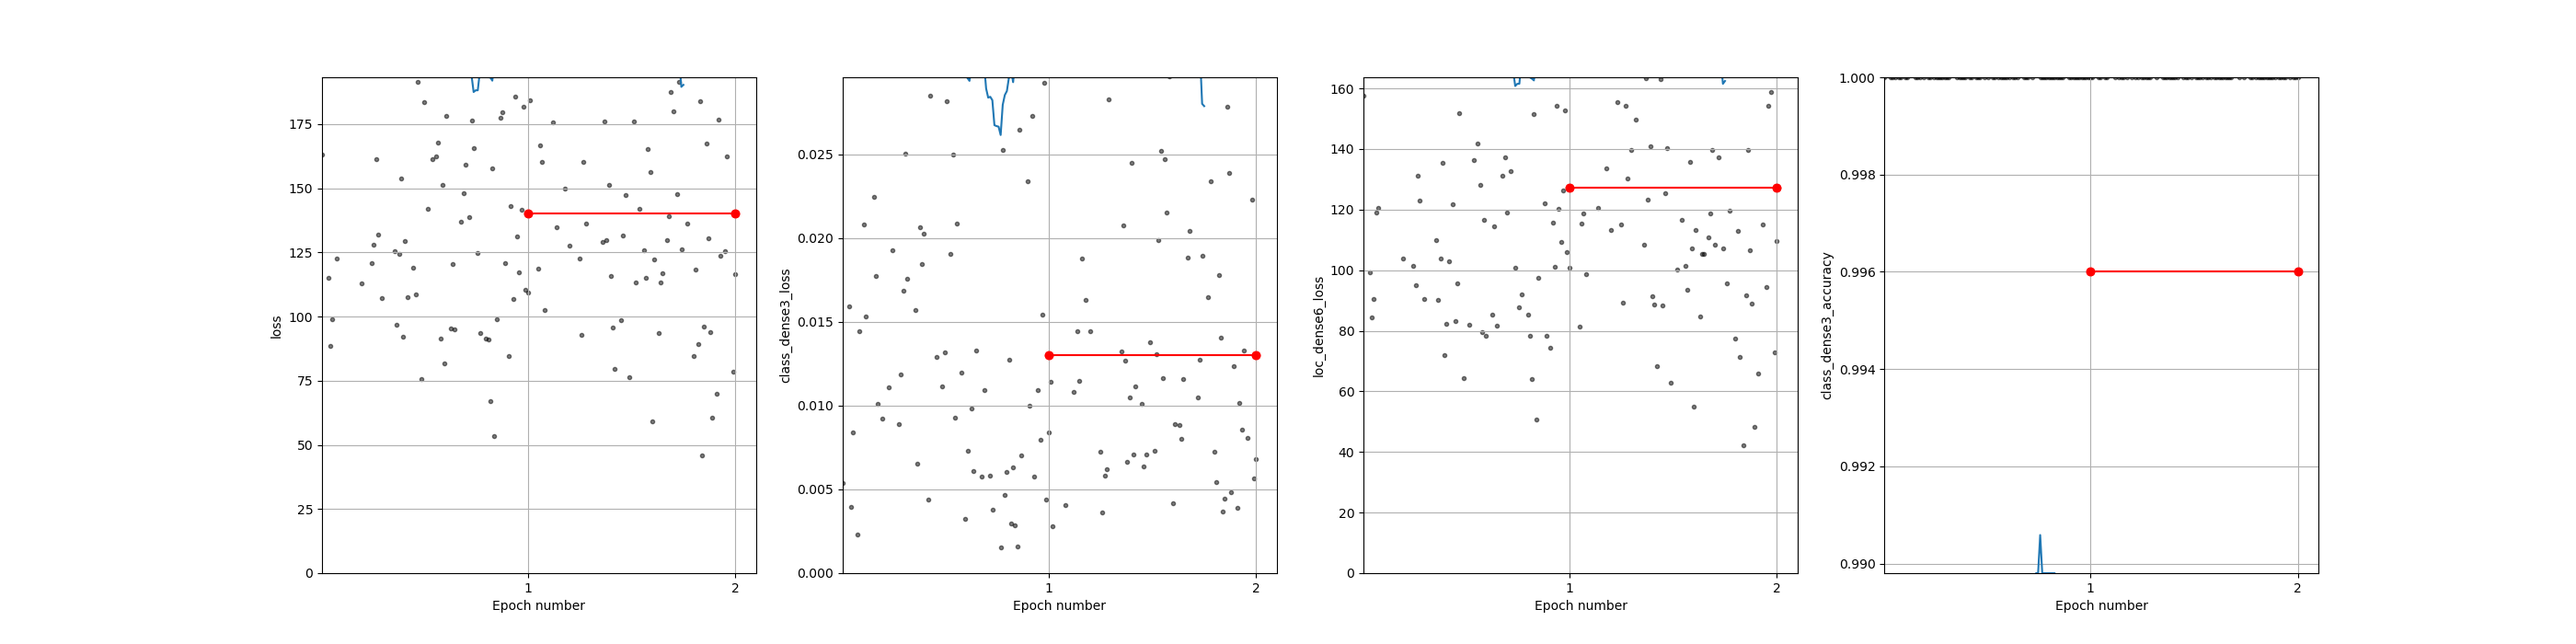
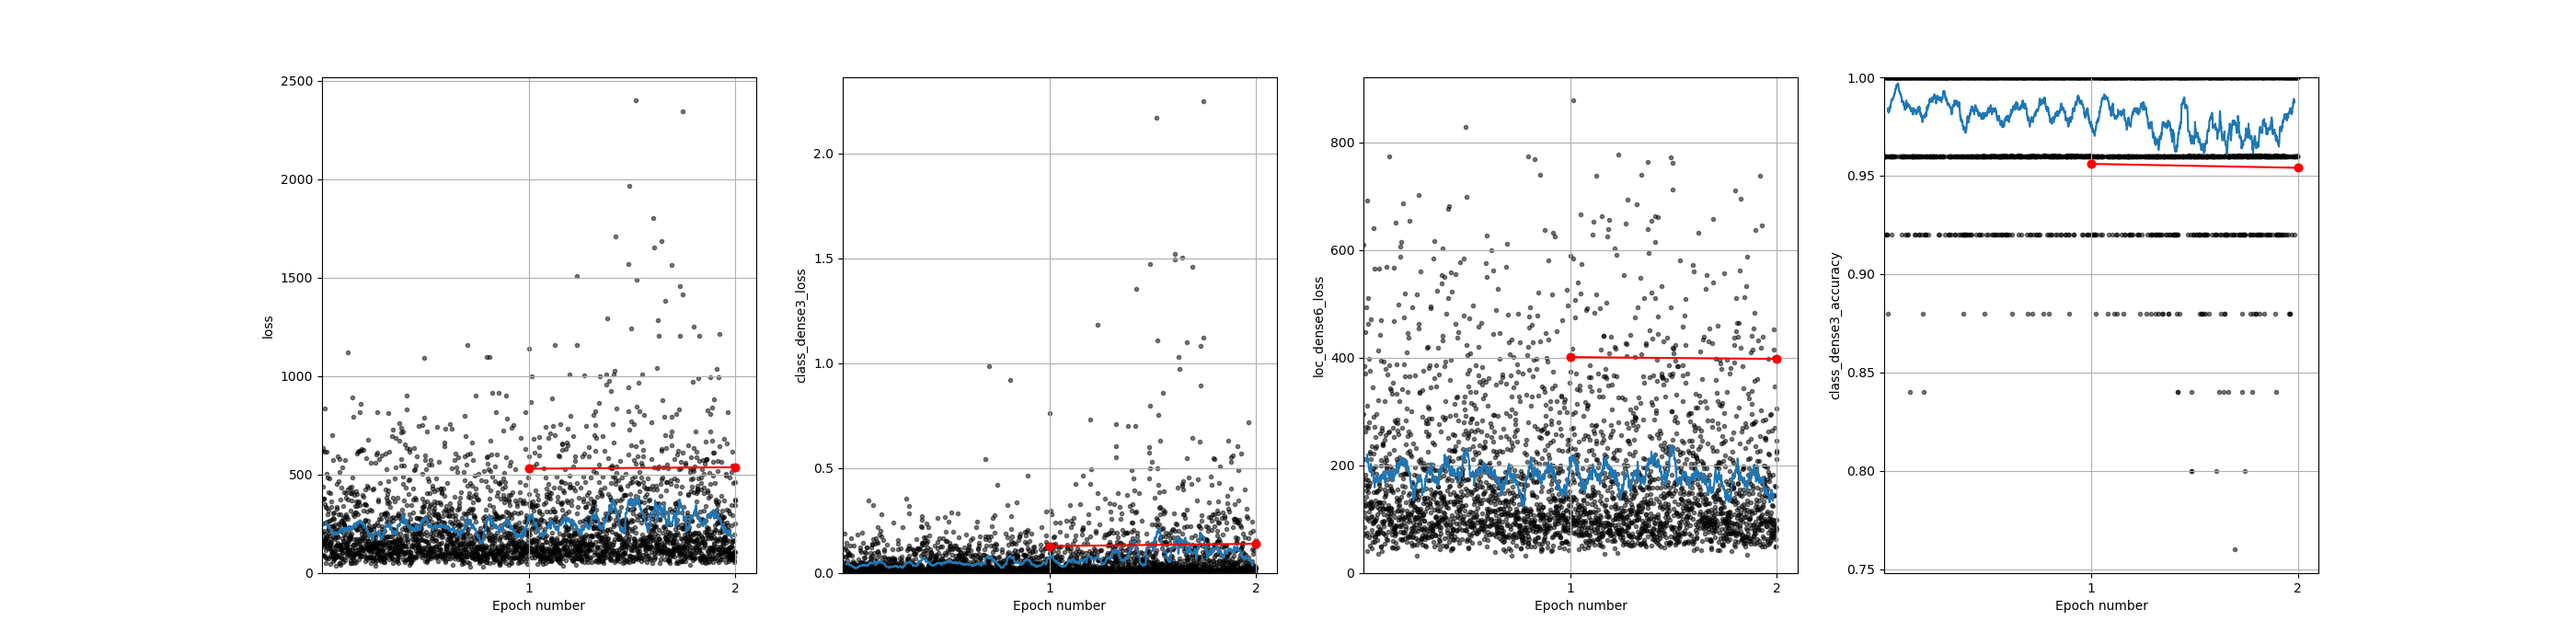
Efficeintnet fine tune training does not ruin model performace, but gradually reduces performance.
Remove step 08 and put outputs in director for each model.

diff --git a/step_06_07_train.py b/step_06_07_train.py
@@ -23,6 +23,7 @@ from copy import deepcopy
 import tensorflow as tf
 import tensorflow.keras as keras
 
+from tensorflow.keras import layers
 from tensorflow.keras import Input, Model
 from tensorflow.keras import losses, optimizers
 from tensorflow.keras.utils import plot_model
@@ -33,6 +34,16 @@ from vudlnet21.plotting import plot_data_class_loc_caller
 from vudlnet21.file_handling import file_merger
 
 
+def print_model_param_info(model):
+    """ """
+    import tensorflow.keras.backend as K
+    trainable_count = np.sum([K.count_params(w) for w in model.trainable_weights])
+    non_trainable_count = np.sum([K.count_params(w) for w in model.non_trainable_weights])
+    
+    print('Total params: {:,}'.format(trainable_count + non_trainable_count))
+    print('Trainable params: {:,}'.format(trainable_count))
+    print('Non-trainable params: {:,}'.format(non_trainable_count))
+    
 
 
 #%% Things to set
@@ -76,8 +87,8 @@ cnn_settings = {}
 
 # Option 2: synthetic and real data
 synth_only                        = False
-#cnn_settings['n_files_train']     = 75                                              # the number of files that will be used to train the network
-cnn_settings['n_files_train']     = 5                                              # the number of files that will be used to train the network
+cnn_settings['n_files_train']     = 75                                              # the number of files that will be used to train the network
+#cnn_settings['n_files_train']     = 5                                              # the number of files that will be used to train the network
 cnn_settings['n_files_validate']  = 5                                               # the number of files that wil be used to validate the network (i.e. passed through once per epoch)
 cnn_settings['n_files_test']      = 0                                               # the number of files held back for testing.      
 
@@ -119,7 +130,7 @@ ft_batch_size                     = 25                                          
 ft_loss_weights                   = [1000, 1]                                         # the relative weighting of the two losses (classificaiton and localisation) to contribute to the global loss.  Classification first, localisation second.  
 ft_unfreeze_from                  = 232                                            # layer 232 is block_7a_project_now, layer 234 is top_conv, 237 is end of EfficientNet and start of two head classifier
 #ft_optimiser                      = keras.optimizers.Adam(1.e-25)                    # Not tested yet  
-ft_optimizer                      = optimizers.SGD(learning_rate = 1e-12)            # SGD
+ft_optimizer                      = optimizers.SGD(learning_rate = 1e-6)            # SGD, 1e-5 too large, 
 
 
 # Option 2D: InceptionV3, synthetic and real data
@@ -292,6 +303,26 @@ if step_06_or_07 == 'step_06':
     plot_data_class_loc_caller(X_test_m[:n_plot,], classes = Y_class_test[:n_plot,], classes_predicted = Y_class_test_cnn_6[:n_plot,],                            # plot all the testing data
                                                   locs = Y_loc_test[:n_plot,],      locs_predicted = Y_loc_test_cnn_6[:n_plot,], 
                                source_names = synthetic_ifgs_settings['defo_sources'], window_title = 'Test data (after step 06)')
+        
+
+    # save some useful outputs.          
+    with open(step_06_dir / 'test_data_predictions.pkl', 'wb') as f:                                                    # open the file
+        pickle.dump(X_test, f)
+        pickle.dump(X_test_m, f)
+        pickle.dump(Y_class_test, f)
+        pickle.dump(Y_class_test_cnn, f)
+        pickle.dump(Y_loc_test, f)
+        pickle.dump(Y_loc_test_cnn, f)
+    
+    # also evaluate all the data, and by each label
+    evaluate_results = {}
+    evaluate_results['all'] = encoder_2head_step_06.evaluate(X_test, y = [Y_class_test, Y_loc_test], verbose = 1)                                                                 # evaluate (ie. get metrics)
+    for source_n, source in enumerate(synthetic_ifgs_settings['defo_sources']):
+        print(f"Evaluating for source {source}:")
+        args = np.ravel(np.argwhere(Y_class_test[:,source_n] == 1))                                                                                             # get only the data with that label
+        evaluate_results[source] = encoder_2head_step_06.evaluate(X_test[args,], y = [Y_class_test[args,], Y_loc_test[args,]], verbose = 1)                      # 
+    with open(step_06_dir / 'test_data_evaluations.pkl', 'wb') as f:                                                    # 
+        pickle.dump(evaluate_results, f)    
     
 
 
@@ -308,15 +339,21 @@ if step_06_or_07 == 'step_07':
 
 
     for layer_n, layer in enumerate(encoder_2head_step_07.layers):
-        if layer_n < ft_unfreeze_from:
-            layer.trainable = False                                             # unfreeze some of the encoder.  
+        if not isinstance(layer, layers.BatchNormalization):                        # if not batch normalistaion layetr
+            if layer_n < ft_unfreeze_from:
+                layer.trainable = False                                             # keep early parts frozen
+            else:
+                layer.trainable = True                                              # unfreeze some of the encoder
         else:
-            layer.trainable = True    
+            layer.trainable = False                                             # but if batchnormalisation, keep frozen
+            
     
     print(f"Step 07 trainable layers:")
     for layer in encoder_2head_step_07.layers:
         if layer.trainable:
             print(f"    {layer.name} (output shape: {layer.output_shape}")
+    
+    print_model_param_info(encoder_2head_step_07)
     
     encoder_2head_step_07.compile(optimizer = ft_optimizer, metrics=['accuracy'],                         # recompile as we've changed which layers can be trained/ optimizer etc.  
                                 loss=[loss_class, loss_loc], loss_weights = ft_loss_weights)                                  
@@ -364,38 +401,36 @@ if step_06_or_07 == 'step_07':
     
     
 
-
-sys.exit()
-
-#%% Step 08: save final models and evaluate
-
-if synth_only:
-    encoder_2head_step_07.save(step_08_dir / "model_synthetic_data_only")                  # 
-    predictions_filename = 'synth_only_test_data_predictions.pkl'
-    evaluate_filename = 'synth_only_test_data_evaluations.pkl'
-else:
-    encoder_2head_step_07.save(step_08_dir / "model_synthetic_and_real_data")                  # 
-    predictions_filename = 'synth_real_test_data_predictions.pkl'
-    evaluate_filename = 'synth_real_test_data_evaluations.pkl'
-
-with open(step_08_dir / predictions_filename, 'wb') as f:                                                    # open the file
-    pickle.dump(X_test, f)
-    pickle.dump(X_test_m, f)
-    pickle.dump(Y_class_test, f)
-    pickle.dump(Y_class_test_cnn, f)
-    pickle.dump(Y_loc_test, f)
-    pickle.dump(Y_loc_test_cnn, f)
-
-
-# also evaluate all the data, and by each label
-evaluate_results = {}
-evaluate_results['all'] = encoder_2head_step_06.evaluate(X_test, y = [Y_class_test, Y_loc_test], verbose = 1)                                                                 # evaluate (ie. get metrics)
-
-for source_n, source in enumerate(synthetic_ifgs_settings['defo_sources']):
-
-    print(f"Evaluating for source {source}:")
-    args = np.ravel(np.argwhere(Y_class_test[:,source_n] == 1))                                                                                             # get only the data with that label
-    evaluate_results[source] = encoder_2head_step_06.evaluate(X_test[args,], y = [Y_class_test[args,], Y_loc_test[args,]], verbose = 1)                      # 
+    # save some useful outputs        
+    with open(step_07_dir / 'test_data_predictions.pkl', 'wb') as f:                                                    # open the file
+        pickle.dump(X_test, f)
+        pickle.dump(X_test_m, f)
+        pickle.dump(Y_class_test, f)
+        pickle.dump(Y_class_test_cnn, f)
+        pickle.dump(Y_loc_test, f)
+        pickle.dump(Y_loc_test_cnn, f)
     
-with open(step_08_dir / evaluate_filename, 'wb') as f:                                                    # 
-    pickle.dump(evaluate_results, f)    
+    # also evaluate all the data, and by each label
+    evaluate_results = {}
+    evaluate_results['all'] = encoder_2head_step_07.evaluate(X_test, y = [Y_class_test, Y_loc_test], verbose = 1)                                                                 # evaluate (ie. get metrics)
+    for source_n, source in enumerate(synthetic_ifgs_settings['defo_sources']):
+        print(f"Evaluating for source {source}:")
+        args = np.ravel(np.argwhere(Y_class_test[:,source_n] == 1))                                                                                             # get only the data with that label
+        evaluate_results[source] = encoder_2head_step_06.evaluate(X_test[args,], y = [Y_class_test[args,], Y_loc_test[args,]], verbose = 1)                      # 
+    with open(step_07_dir / 'test_data_evaluations.pkl', 'wb') as f:                                                    # 
+        pickle.dump(evaluate_results, f)    
+    
+    
+#%%
+
+
+
+
+
+
+
+
+
+
+
+
